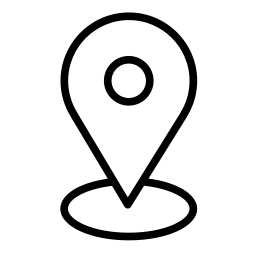
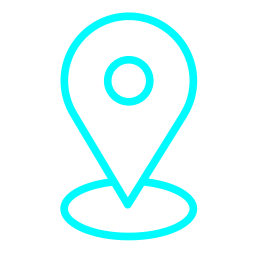
se hicieron unos cambios en las imagenes de contactos

Changed region(s): [[0.2188, 0.0312, 0.7812, 0.9688], [0.4062, 0.2188, 0.625, 0.4375]]

diff --git a/index.html b/index.html
@@ -70,7 +70,7 @@
 
 		<section id="contact">
 			<div class="container">
-				<h2>Contactos</h2>
+				<h2><font color = "#33FCFF">Mis contactos</h2></font>
 				<div class="contact-row">
 					<div class="contact-row-icon">
 						<img src="/img/icon-address.png" alt="" />
